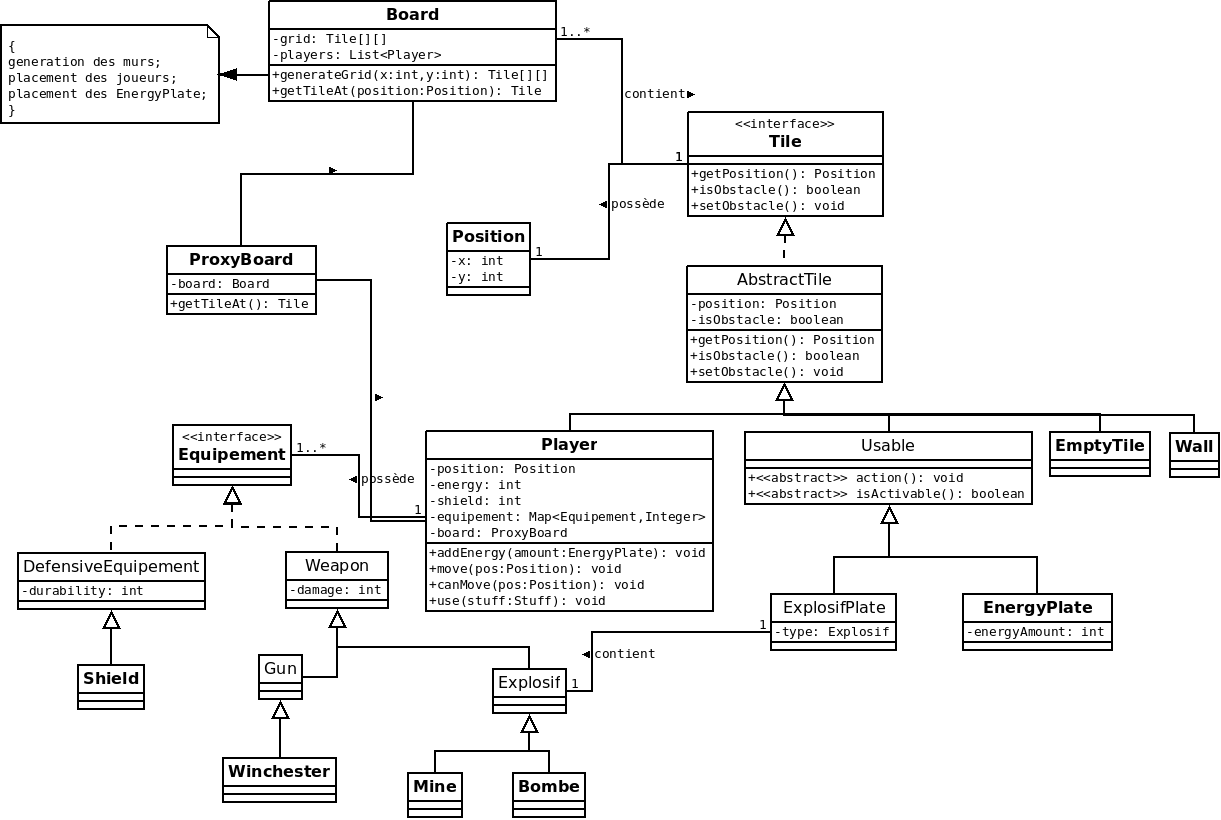
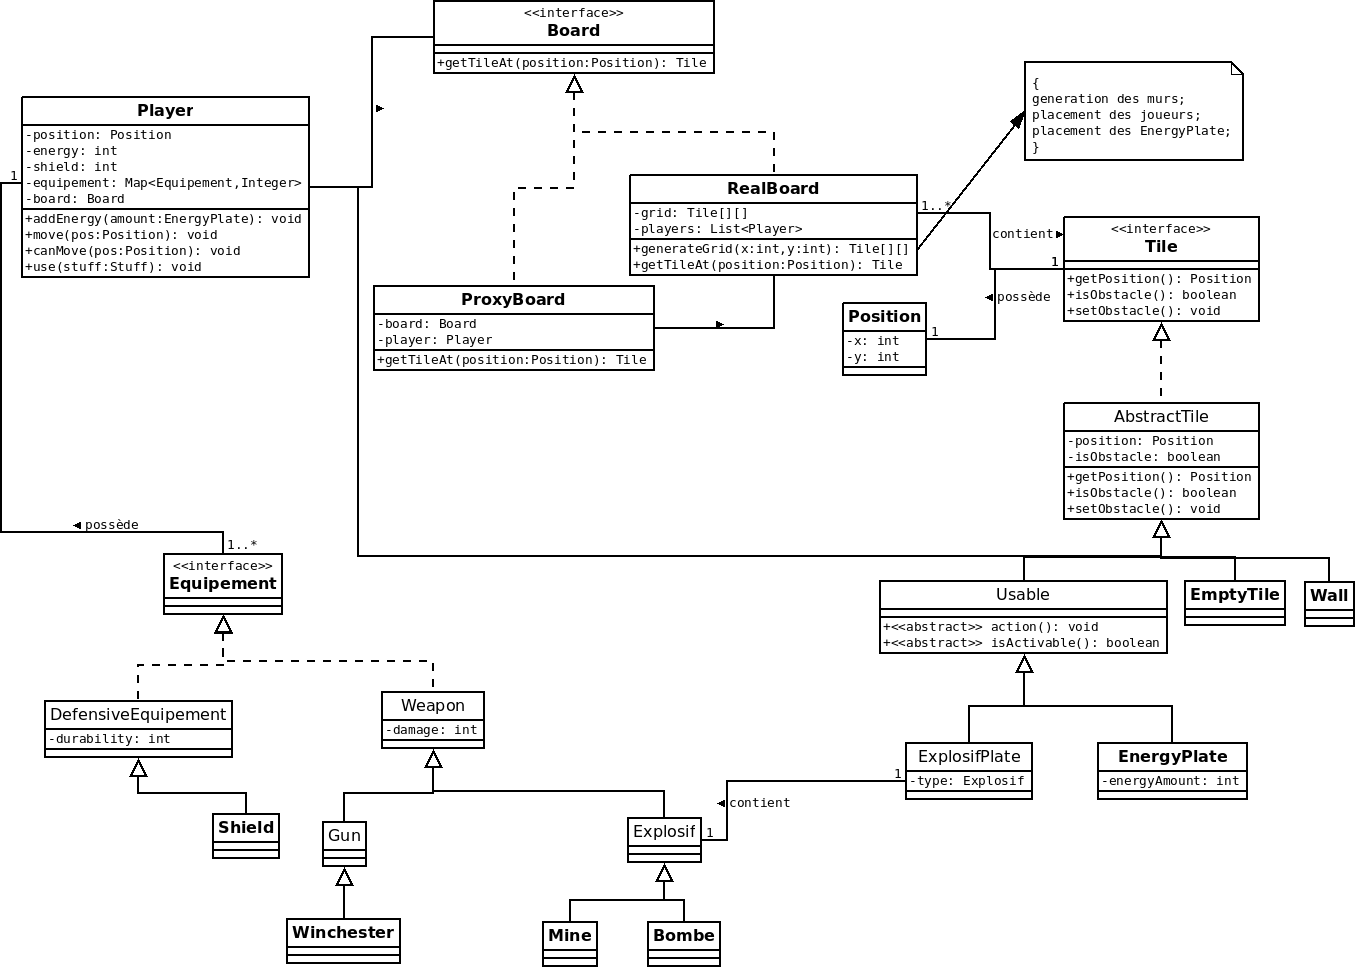
suppression de Stuff, defensiveStuff, Terrain et correction diagramme proxy et abtractTile

Changed region(s): [[0.0, 0.0, 1.0, 1.0], [0.3112, 0.1829, 0.3423, 0.2134], [0.1556, 0.0305, 0.1867, 0.061]]

diff --git a/livraison/src/game/DefensiveEquipement.java b/livraison/src/game/DefensiveEquipement.java
@@ -1,10 +1,11 @@
+
 package game;
 
-public abstract class DefensiveStuff implements Stuff {
+public abstract class DefensiveEquipement implements Equipement {
 
   protected int durability;
 
-  public DefensiveStuff(int durability) {
+  public DefensiveEquipement(int durability) {
     this.durability = durability;
   }
 

diff --git a/livraison/src/game/Equipement.java b/livraison/src/game/Equipement.java
@@ -1,0 +1,6 @@
+
+package game;
+
+public interface Equipement {
+    
+}
